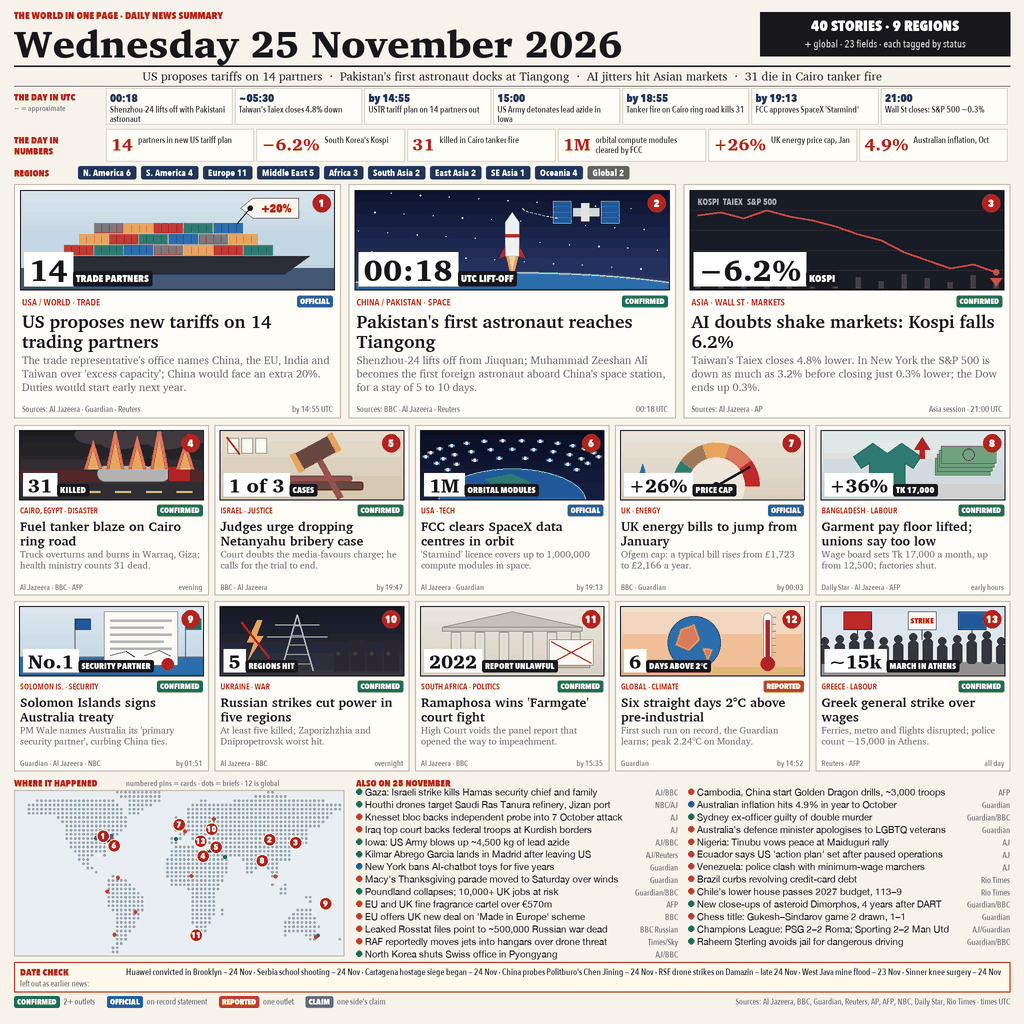
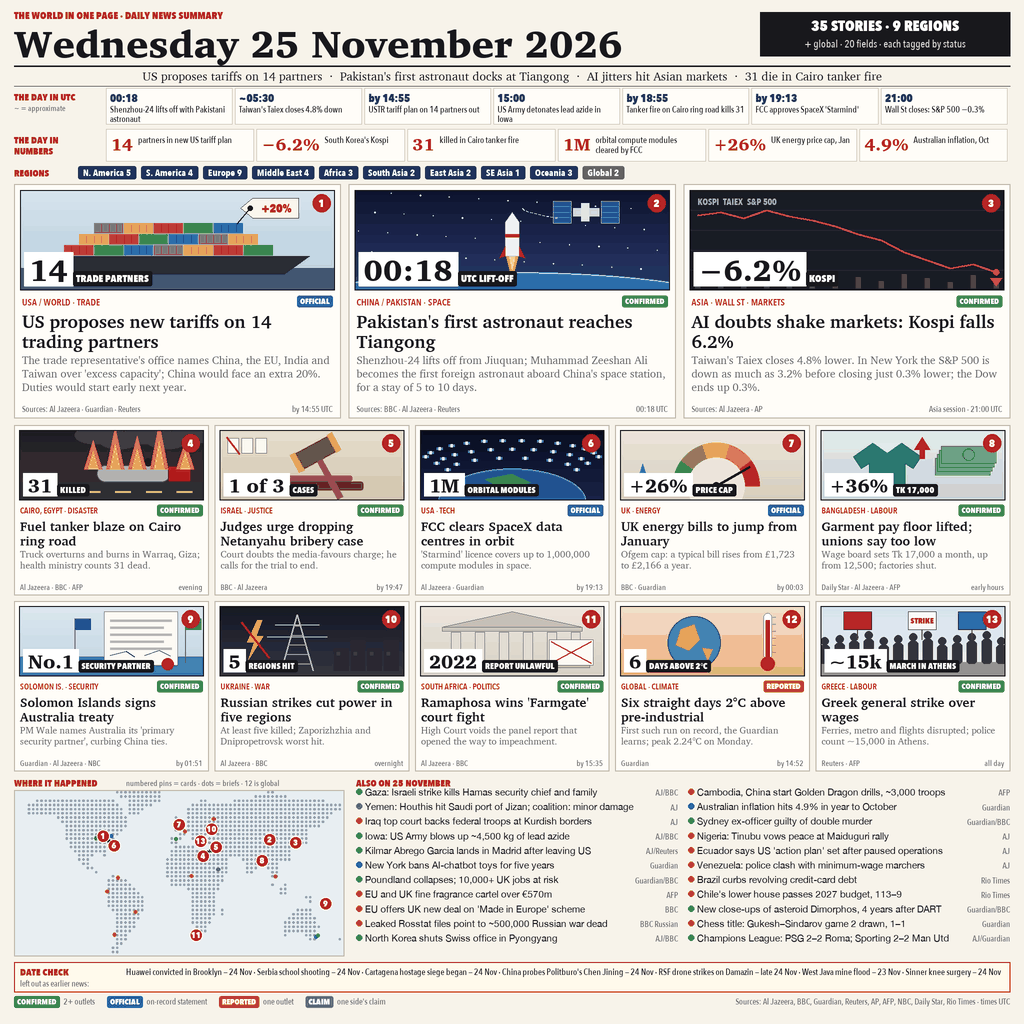
Restore the final entry (35-story v1, submitted as 7466b70) on main; v3 scored lower on dev

diff --git a/render.py b/render.py
@@ -184,23 +184,19 @@ CARDS = [
 
 BRIEFS = [
     ("Middle East", "War", "CONFIRMED", "Gaza: Israeli strike kills Hamas security chief and family", "AJ/BBC", (31.5, 34.5)),
-    ("Middle East", "War", "CONFIRMED", "Houthi drones target Saudi Ras Tanura refinery, Jizan port", "NBC/AJ", (26.6, 50.1)),
-    ("Middle East", "Politics", "REPORTED", "Knesset bloc backs independent probe into 7 October attack", "AJ", (31.8, 35.2)),
+    ("Middle East", "War", "CLAIM", "Yemen: Houthis hit Saudi port of Jizan; coalition: minor damage", "AJ", (16.9, 42.6)),
     ("Middle East", "Justice", "REPORTED", "Iraq top court backs federal troops at Kurdish borders", "AJ", (36.2, 44.0)),
     ("N. America", "Environment", "CONFIRMED", "Iowa: US Army blows up ~4,500 kg of lead azide", "AJ/BBC", (41.0, -91.0)),
     ("N. America", "Migration", "CONFIRMED", "Kilmar Abrego Garcia lands in Madrid after leaving US", "AJ/Reuters", (40.4, -3.7)),
     ("N. America", "Tech", "OFFICIAL", "New York bans AI-chatbot toys for five years", "Guardian", (42.7, -73.8)),
-    ("N. America", "Weather", "REPORTED", "Macy's Thanksgiving parade moved to Saturday over winds", "Guardian", (40.7, -74.0)),
     ("Europe", "Business", "CONFIRMED", "Poundland collapses; 10,000+ UK jobs at risk", "Guardian/BBC", (52.5, -1.9)),
     ("Europe", "Business", "REPORTED", "EU and UK fine fragrance cartel over €570m", "AFP", (50.8, 4.4)),
     ("Europe", "Trade", "REPORTED", "EU offers UK new deal on 'Made in Europe' scheme", "BBC", (50.8, 4.4)),
     ("Europe", "War", "REPORTED", "Leaked Rosstat files point to ~500,000 Russian war dead", "BBC Russian", (55.8, 37.6)),
-    ("Europe", "Defence", "REPORTED", "RAF reportedly moves jets into hangars over drone threat", "Times/Sky", (52.4, 0.5)),
     ("East Asia", "Diplomacy", "CONFIRMED", "North Korea shuts Swiss office in Pyongyang", "AJ/BBC", (39.0, 125.8)),
     ("SE Asia", "Security", "REPORTED", "Cambodia, China start Golden Dragon drills, ~3,000 troops", "AFP", (11.6, 104.9)),
     ("Oceania", "Economy", "OFFICIAL", "Australian inflation hits 4.9% in year to October", "Guardian", (-35.3, 149.1)),
     ("Oceania", "Justice", "CONFIRMED", "Sydney ex-officer guilty of double murder", "Guardian/BBC", (-33.9, 151.2)),
-    ("Oceania", "Rights", "REPORTED", "Australia's defence minister apologises to LGBTQ veterans", "Guardian", (-35.3, 149.1)),
     ("Africa", "Politics", "REPORTED", "Nigeria: Tinubu vows peace at Maiduguri rally", "AJ", (11.8, 13.2)),
     ("S. America", "Security", "REPORTED", "Ecuador says US 'action plan' set after paused operations", "AJ", (-0.2, -78.5)),
     ("S. America", "Labour", "REPORTED", "Venezuela: police clash with minimum-wage marchers", "AJ", (10.5, -66.9)),
@@ -209,7 +205,6 @@ BRIEFS = [
     ("Global", "Science", "CONFIRMED", "New close-ups of asteroid Dimorphos, 4 years after DART", "Guardian/BBC", None),
     ("Europe", "Sport", "REPORTED", "Chess title: Gukesh–Sindarov game 2 drawn, 1–1", "Guardian", (46.2, 6.1)),
     ("Europe", "Sport", "CONFIRMED", "Champions League: PSG 2–2 Roma; Sporting 2–2 Man Utd", "AJ/Guardian", (48.9, 2.3)),
-    ("Europe", "Sport", "CONFIRMED", "Raheem Sterling avoids jail for dangerous driving", "Guardian/BBC", (51.3, -1.1)),
 ]
 
 DATE_CHECK = [
@@ -768,13 +763,13 @@ world_map(M, by + 13, mw, mh)
 bx = M + mw + 12
 text(bx, by, "ALSO ON 25 NOVEMBER", font("heavy", 9.5), RED)
 colw = (W - M - bx - 10) / 2
-bf = font("sans", 9.4)
+bf = font("sans", 9.6)
 of = font("med", 8.3)
 per_col = math.ceil(len(BRIEFS) / 2)
 for i, (reg, fld, st, t, src, _) in enumerate(BRIEFS):
     col, row = divmod(i, per_col)
     xx = bx + col * (colw + 10)
-    yy = by + 9 + row * 12.45
+    yy = by + 9 + row * 14.6
     ellipse(xx, yy + 2.5, 6, 6, fill=STATUS[st])
     srcw = tw(src, of)
     text(xx + 9, yy, t, bf, INK, maxw=colw - 14 - srcw, tag=t)

diff --git a/FACTS.md b/FACTS.md
@@ -35,16 +35,11 @@ by the body concerned · **REPORTED** = one outlet · **CLAIM** = one side's sta
 | Story | Sources | Status |
 |---|---|---|
 | Gaza: Israeli strike kills Hamas internal-security chief Abu al-Awf and family in Shati camp; ≥7 killed | Al Jazeera 11:24; BBC 14:06 | CONFIRMED |
-| Houthi drones target Saudi Arabia's Ras Tanura refinery (Wednesday morning; Saudi says 4 drones intercepted, NBC cites satellite smoke) and later the port of Jizan | Al Jazeera 08:23 & 23:33; NBC 17:17 | CONFIRMED |
-| Knesset bloc led by Eisenkot votes for an independent probe into the 7 October attack | Al Jazeera 20:29 | REPORTED |
+| Yemen: Houthis strike Saudi port of Jizan; coalition says minor damage, drone downed over Jeddah | Al Jazeera 23:33 | CLAIM |
 | Iraq: Federal Supreme Court says federal troops may deploy at Kurdish-region borders | Al Jazeera 17:29 (state TV) | REPORTED |
 | Iowa: US Army detonates ~4,500 kg of lead azide at ~15:00 UTC | Al Jazeera 15:14; BBC 14:05; Guardian; CNN | CONFIRMED |
 | Kilmar Abrego Garcia lands in Madrid after leaving the US | Al Jazeera; Guardian; Reuters; RFI | CONFIRMED |
 | New York: Hochul signs 5-year ban on AI-chatbot toys | Guardian 15:29 | OFFICIAL |
-| Macy's Thanksgiving parade moved to Saturday over high winds | Guardian 21:08 | REPORTED |
-| RAF reportedly moving jets into hangars over drone threat (Times, Sky; MoD does not confirm) | Al Jazeera 19:15 | REPORTED |
-| Australia's defence minister apologises to LGBTQ veterans | Guardian video 25 Nov | REPORTED |
-| Raheem Sterling: 12-month suspended sentence for dangerous driving | Guardian 11:34; Al Jazeera; BBC 17:17 | CONFIRMED |
 | UK: Poundland enters administration, 10,000+ jobs at risk | Guardian 18:50; BBC 17:00 | CONFIRMED |
 | EU & UK fine Givaudan, Firmenich, IFF >€570m over fragrance cartel | AFP (cited on Wikipedia) | REPORTED |
 | EU offers UK fresh deal on "Made in Europe" scheme | BBC 10:59 | REPORTED |
@@ -61,6 +56,8 @@ by the body concerned · **REPORTED** = one outlet · **CLAIM** = one side's sta
 | Dimorphos: close-up images four years after NASA's DART impact | Guardian 18:48; BBC 20:11 | CONFIRMED |
 | Chess: Gukesh–Sindarov game 2 drawn in 20 moves, 1–1 | Guardian 18:16 | REPORTED |
 | Champions League: PSG 2–2 Roma; Sporting 2–2 Man Utd | Al Jazeera 22:15, 22:41; Guardian | CONFIRMED |
+| Raheem Sterling: 12-month suspended sentence for dangerous driving | Guardian 11:34; Al Jazeera; BBC | CONFIRMED |
+| Ukraine says Blysk laser downed a Russian jet drone | Al Jazeera video 25 Nov | CLAIM |
 
 ## Date check — left out (happened or first reported before 25 Nov)
 
@@ -72,5 +69,4 @@ by the body concerned · **REPORTED** = one outlet · **CLAIM** = one side's sta
 - West Java gold-mine flood — 23 Nov (Al Jazeera)
 - Sinner knee surgery — announced 24 Nov (Al Jazeera)
 - WHO chief's call to lift US fuel blockade of Cuba — 24 Nov (Al Jazeera)
-- Hodeidah air strike by the Saudi-led coalition — 24 Nov (Al Jazeera)
 - Not used: Wall Street "tumble" headline — AP shows a mixed close, so the image gives the intraday low and the close.

diff --git a/README.md b/README.md
@@ -4,7 +4,7 @@
 [![rank](https://make.fun/badge/news-image-20261125/GAD2412/world-news-2026-11-25/rank.svg)](https://make.fun/bounty/news-image-20261125/leaderboard?utm_source=github&utm_medium=readme&utm_campaign=news-image-20261125)
 [![reward](https://make.fun/badge/news-image-20261125/GAD2412/world-news-2026-11-25/reward.svg)](https://make.fun/bounty/news-image-20261125?utm_source=github&utm_medium=readme&utm_campaign=news-image-20261125)
 
-One front page summing up the world news of Wednesday 25 November 2026: 40 stories across
+One front page summing up the world news of Wednesday 25 November 2026: 35 stories across
 9 regions plus global items, each tagged CONFIRMED, OFFICIAL, REPORTED or CLAIM, with a UTC
 timeline, the day in numbers, a dotted world map and a date check of earlier news left out.
 `render.py` draws the page with Pillow and macOS system fonts (2x, LANCZOS, 240 colours);
